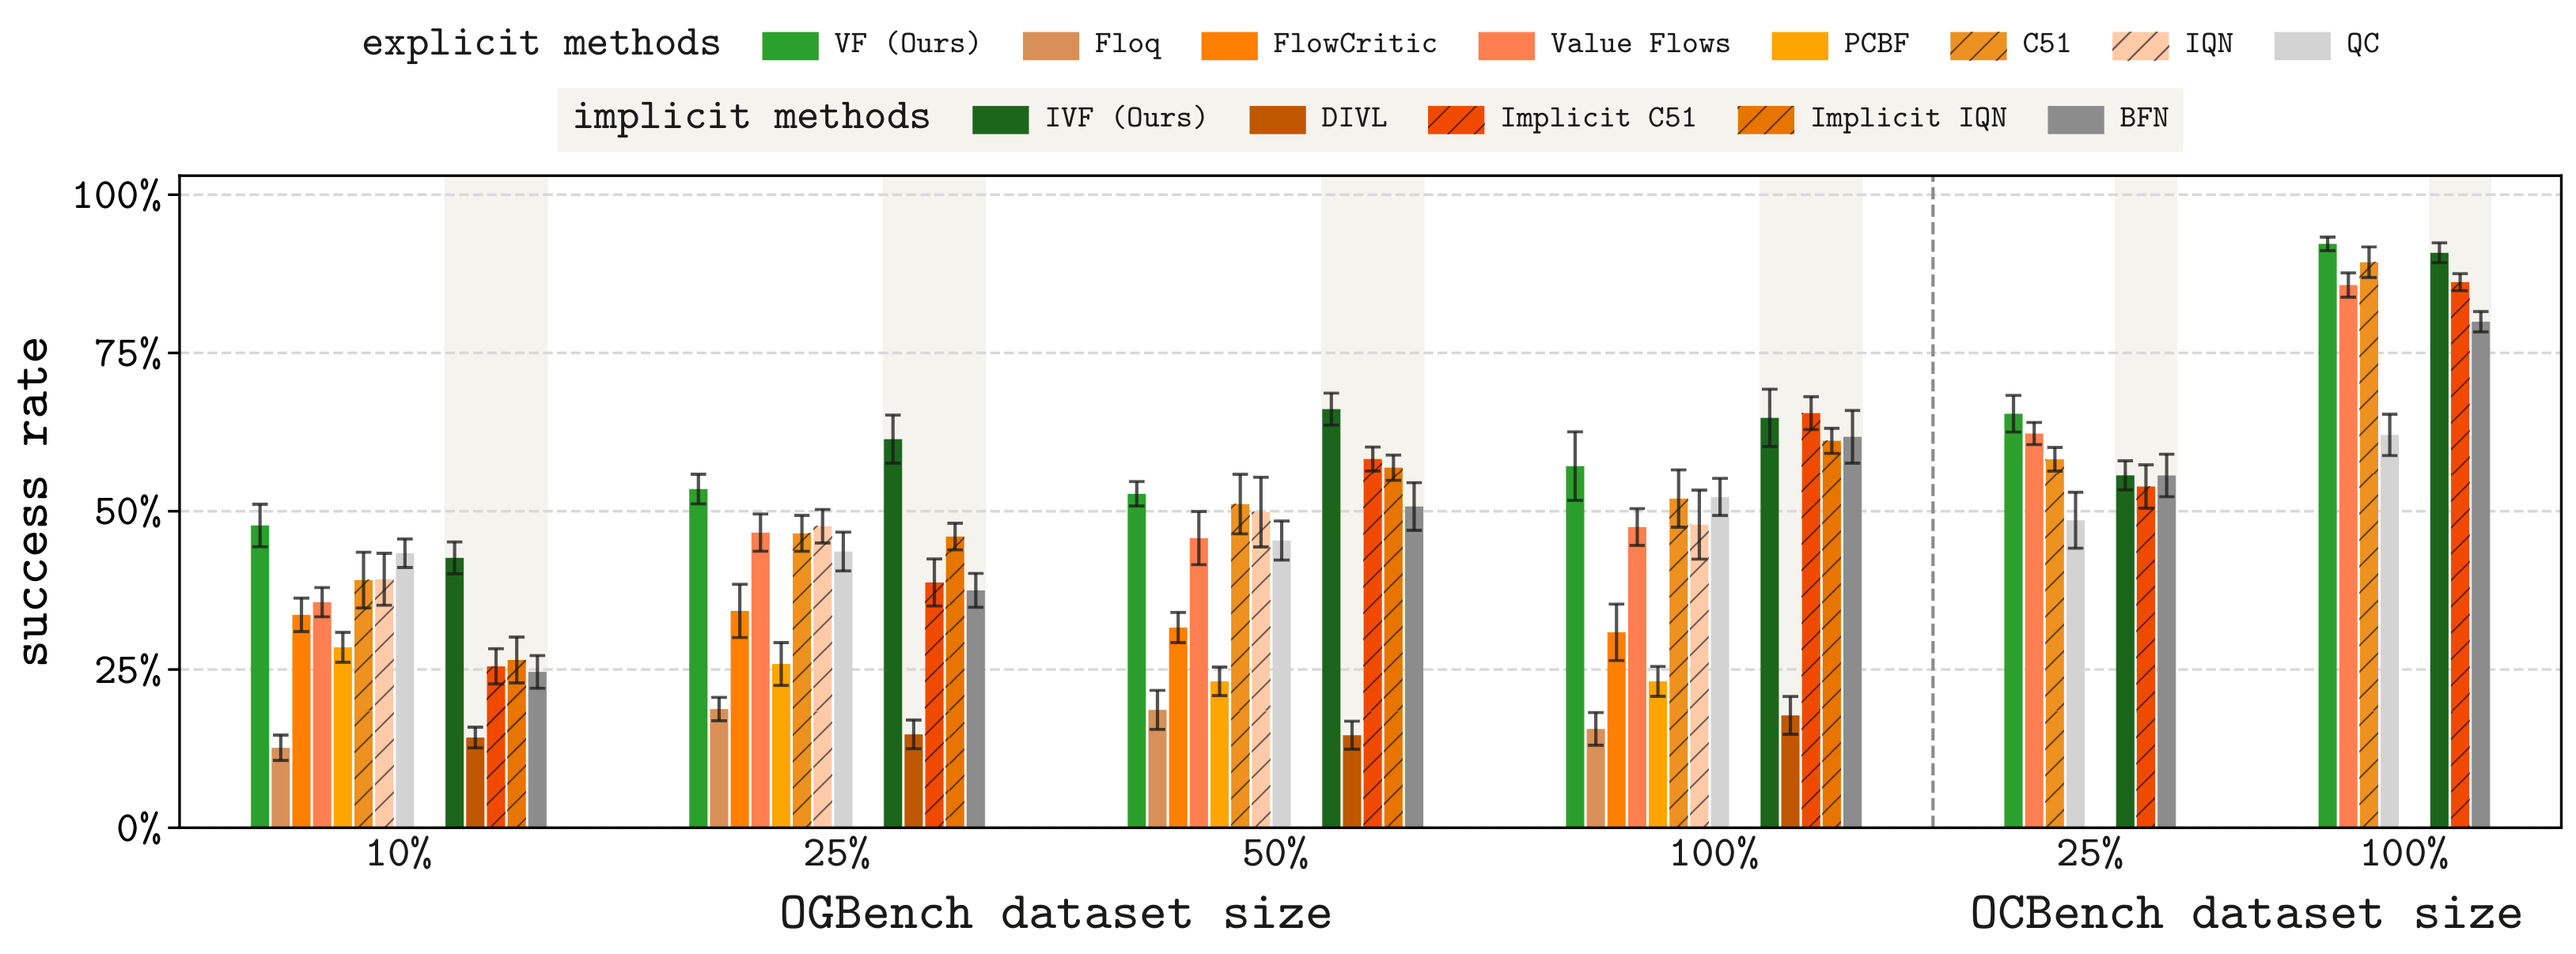
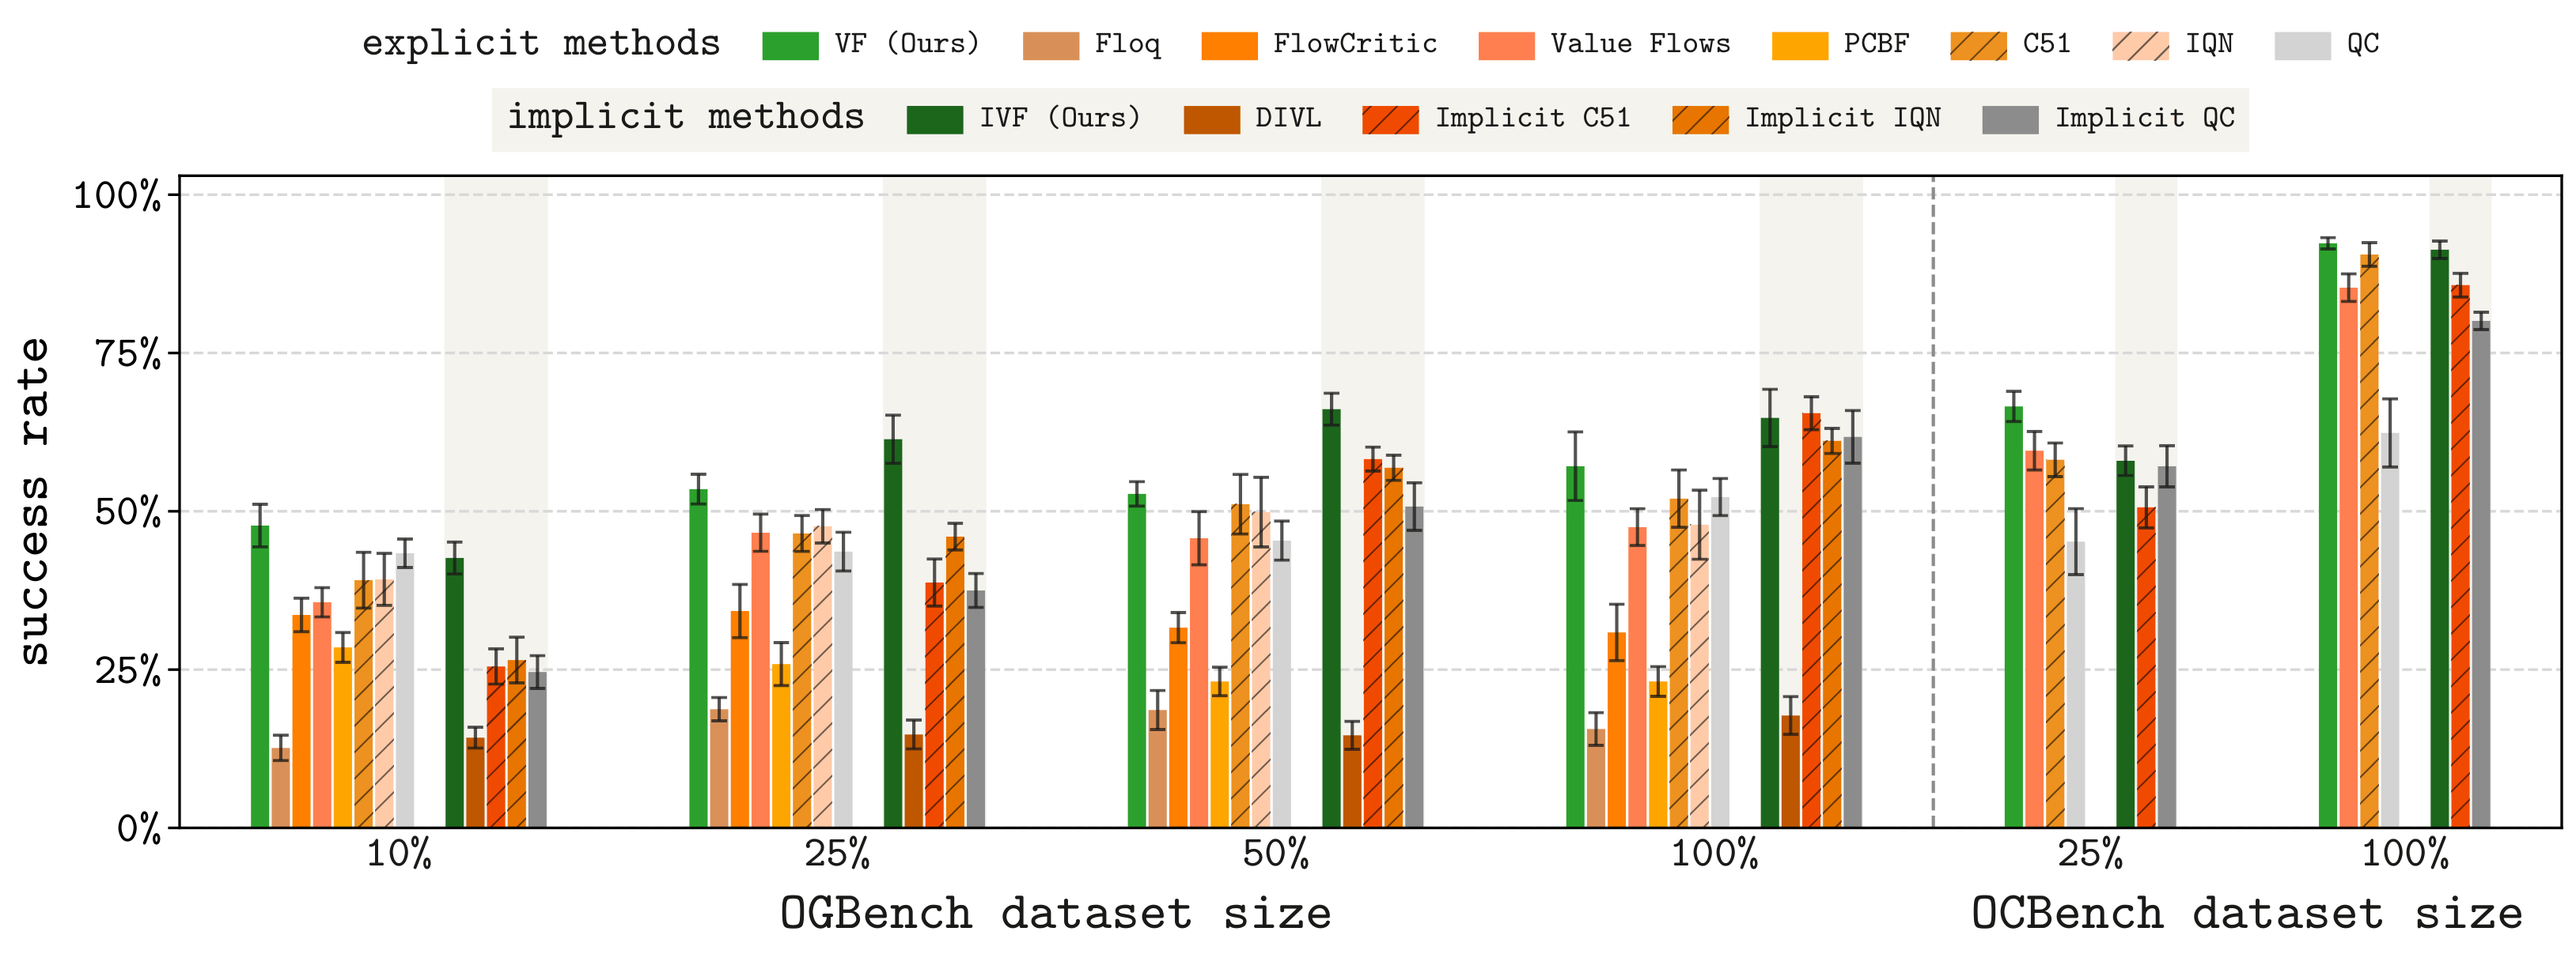
update value forcing website

diff --git a/_pages/value_forcing.html b/_pages/value_forcing.html
@@ -2643,7 +2643,7 @@ nav: false
             </div>
             <p class="scroll-hint" aria-hidden="true"><i class="fas fa-arrows-left-right"></i> Swipe to see the full figure</p>
             <figcaption class="fig-caption">
-              <strong>Value Forcing improves offline RL performance across dataset sizes.</strong>
+              <strong>Value Forcing improves offline RL performance across dataset sizes.</strong> Success rates are averaged over 20 OGBench tasks <em>(Left)</em> and 6 OCBench tasks <em>(Right)</em> on each dataset size.
               On OGBench, VF and IVF outperform their explicit and implicit baselines with 10% and 25% of the data and remain competitive with more data.
               On OCBench, VF outperforms selected explicit methods on the 25% dataset, while IVF leads among selected implicit methods on the full dataset.
               Hatched bars <span aria-hidden="true">(<span class="hatch-swatch"></span>)</span> indicate distributional RL methods without flow matching.
@@ -2693,7 +2693,7 @@ nav: false
                       <th scope="col" class="grp-start">DIVL</th>
                       <th scope="col">Implicit C51</th>
                       <th scope="col">Implicit IQN</th>
-                      <th scope="col">BFN</th>
+                      <th scope="col">Implicit QC</th>
                       <th scope="col" class="col-ours">IVF (Ours)</th>
                     </tr>
                   </thead>
@@ -2739,7 +2739,7 @@ nav: false
                       <th scope="col">QC</th>
                       <th scope="col" class="col-ours">VF (Ours)</th>
                       <th scope="col" class="grp-start">Implicit C51</th>
-                      <th scope="col">BFN</th>
+                      <th scope="col">Implicit QC</th>
                       <th scope="col" class="col-ours">IVF (Ours)</th>
                     </tr>
                   </thead>
@@ -2751,14 +2751,15 @@ nav: false
           </details>
         </div>
 
-        <!-- Policy extraction, expectile weighting, and reward scaling figures -->
+        <!-- Experiment 3: key design decisions (Figs. 4-5) -->
         <div class="result-block" id="ablations">
+          <h3 class="result-title">Key design decisions in Value Forcing</h3>
           <div class="study-grid breakout">
             <article class="study">
               <h4>Policy extraction and expectile weighting</h4>
               <figure class="figure">
                 <a class="fig-link fig-frame" href="../assets/papers/value_forcing/images/ablation_instantiations.png">
-                  <img class="fig-img" src="../assets/papers/value_forcing/images/ablation_instantiations.png" width="2000" height="793" loading="lazy"
+                  <img class="fig-img" src="../assets/papers/value_forcing/images/ablation_instantiations.png" width="2000" height="794" loading="lazy"
                        alt="Figure 4. Success rates of alternative instantiations. Explicit methods: learning both v_Q and v_V (VF) and learning only v_Q perform similarly, while a one-step actor is much lower. Implicit methods: Q, V expectile weighting (IVF) is much higher than v_Q, v_V expectile or quantile weights.">
                 </a>
                 <figcaption class="fig-caption">
@@ -2772,8 +2773,8 @@ nav: false
               <h4>Reward scaling</h4>
               <figure class="figure">
                 <a class="fig-link fig-frame" href="../assets/papers/value_forcing/images/ablation_reward_scaling.png">
-                  <img class="fig-img" src="../assets/papers/value_forcing/images/ablation_reward_scaling.png" width="2000" height="793" loading="lazy"
-                       alt="Figure 5. Success rates with and without reward scaling: about 86% versus 11% for VF, and 72% versus 11% for IVF.">
+                  <img class="fig-img" src="../assets/papers/value_forcing/images/ablation_reward_scaling.png" width="2000" height="794" loading="lazy"
+                       alt="Figure 5. Success rates with and without reward scaling: about 86% versus 11% for VF, and 76% versus 11% for IVF.">
                 </a>
                 <figcaption class="fig-caption">
                   Both VF and IVF achieve substantially higher success rates with reward scaling.
